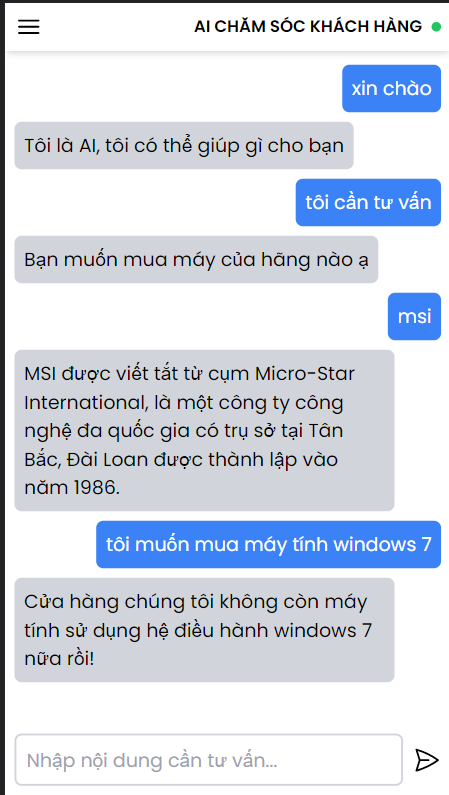
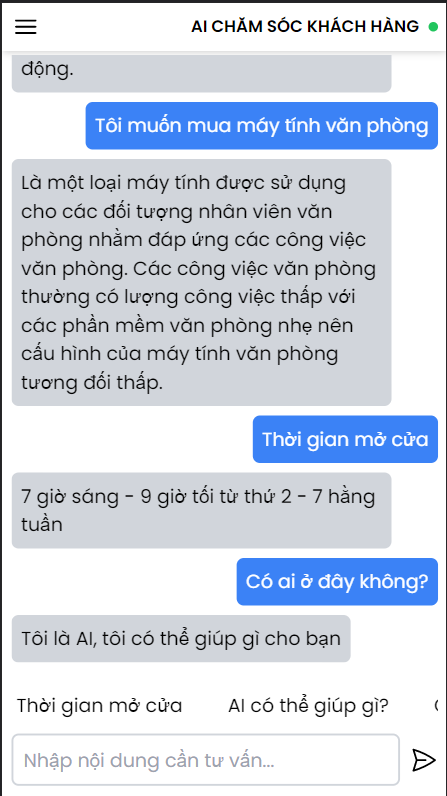
update suggest question

diff --git a/client/src/components/chat/ChatInput.tsx b/client/src/components/chat/ChatInput.tsx
@@ -1,10 +1,25 @@
 import { useRef } from 'react';
 import { Socket } from 'socket.io-client';
+import { Swiper, SwiperSlide } from 'swiper/react';
 
 import IconSend from '../icons/IconSend';
 
 import handleKeyPress from '../../hooks/handleKeyPress';
 import useGlobalStore from '../../store/useGlobalStore';
+
+const suggestQuestion = [
+  'Có ai ở đây không?',
+  'Địa chỉ cửa hàng',
+  'Thời gian mở cửa',
+  'AI có thể giúp gì?',
+  'Cửa hàng có những kiểu thanh toán nào?',
+  'Tôi cần tư vấn mua máy tính?',
+  'Cửa hàng có những hãng máy tính nào?',
+  'Tôi muốn mua máy tính chơi game',
+  'Tôi muốn mua máy tính văn phòng',
+  'Tôi muốn tư vấn về hệ điều hành',
+  'Tư vấn thêm',
+];
 
 interface IChatInputProps {
   socket: Socket;
@@ -33,17 +48,32 @@ const ChatInput = ({ socket }: IChatInputProps) => {
   handleKeyPress('Enter', handleSendMessage);
 
   return (
-    <div className='p-2 lg:p-4 absolute bottom-0 flex w-full gap-x-2 lg:gap-x-4 items-center'>
-      <input
-        type='text'
-        className='flex-1 w-full border-2 border-gray-300 active:border-gray-600 rounded-md p-2'
-        placeholder='Nhập nội dung cần tư vấn...'
-        ref={messageRef}
-      />
-      <IconSend
-        className='cursor-pointer hover:scale-110 duration-100 active:scale-90'
-        onClick={handleSendMessage}
-      />
+    <div className='p-2 lg:p-4 absolute bottom-0 w-full flex flex-col gap-y-2 select-none'>
+      <Swiper spaceBetween={30} grabCursor={true} slidesPerView={'auto'}>
+        {suggestQuestion.map((ques, index) => (
+          <SwiperSlide
+            key={index}
+            onClick={() => {
+              if (!messageRef.current) return;
+              messageRef.current.value = ques;
+            }}
+          >
+            <span className='cursor-pointer text-md line-clamp-1 p-1'>{ques}</span>
+          </SwiperSlide>
+        ))}
+      </Swiper>
+      <div className='flex gap-x-2 lg:gap-x-4 items-center'>
+        <input
+          type='text'
+          className='flex-1 w-full border-2 border-gray-300 active:border-gray-600 rounded-md p-2'
+          placeholder='Nhập nội dung cần tư vấn...'
+          ref={messageRef}
+        />
+        <IconSend
+          className='cursor-pointer hover:scale-110 duration-100 active:scale-90'
+          onClick={handleSendMessage}
+        />
+      </div>
     </div>
   );
 };

diff --git a/client/src/components/chat/ChatBox.tsx b/client/src/components/chat/ChatBox.tsx
@@ -28,8 +28,8 @@ const ChatBox = ({ socket, ref }: IChatBoxProps) => {
       style={{
         maxHeight:
           size.width && size.width < 1024
-            ? size.height && size.height - 40 - 60
-            : size.height && size.height - 64 - 76,
+            ? size.height && size.height - 40 - 100
+            : size.height && size.height - 64 - 116,
       }}
       ref={ref}
     >

diff --git a/client/src/main.tsx b/client/src/main.tsx
@@ -3,6 +3,7 @@ import { ToastContainer } from 'react-toastify';
 
 import 'react-toastify/dist/ReactToastify.css';
 import './index.css';
+import 'swiper/css';
 
 import App from './App';
 

diff --git a/client/src/index.css b/client/src/index.css
@@ -15,3 +15,11 @@ html {
   max-height: 100vh;
   overflow: hidden;
 }
+
+.swiper {
+  width: 100%;
+}
+
+.swiper-slide {
+  width: auto !important;
+}

diff --git a/server/train.py b/server/train.py
@@ -1,16 +1,14 @@
 import nltk
 from nltk.stem.lancaster import LancasterStemmer
-
-stemmer = LancasterStemmer()
-
-nltk.download('punkt')
-
 import numpy as np
 import tflearn
 import tensorflow as tf
 import random
-
 import json
+import pickle
+
+stemmer = LancasterStemmer()
+nltk.download('punkt')
 
 with open('data/intents.json', encoding="utf8") as json_data:
     intents = json.load(json_data)
@@ -98,8 +96,6 @@ model = tflearn.DNN(net, tensorboard_dir='tflearn_logs')
 
 model.fit(train_x, train_y, n_epoch=1000, batch_size=8, show_metric=True)
 model.save('models_save/model.tflearn')
-
-import pickle
 
 pickle.dump({'words': words, 'classes': classes, 'train_x': train_x, 'train_y': train_y},
             open("models_save/training_data", "wb"))

diff --git a/server/server.py b/server/server.py
@@ -105,6 +105,7 @@ def connect_error():
 
 @io.event
 def message(sid, data):
+    print(classify(data))
     response_message = response(data)
     io.emit("response", response_message)
 

diff --git a/README.md b/README.md
@@ -5,3 +5,5 @@
 ## Screenshoot
 
 ![img.png](assets/img.png)
+
+![img.png](assets/img_2.png)
